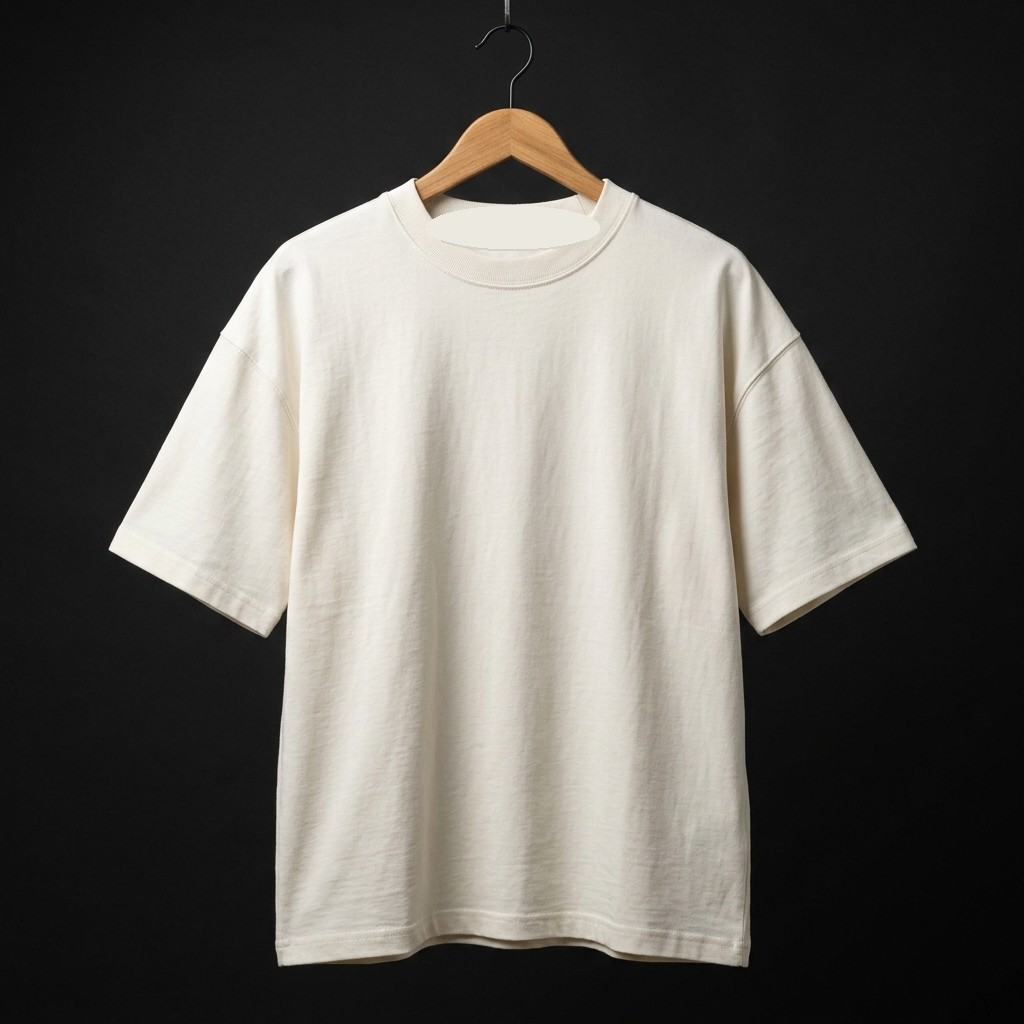
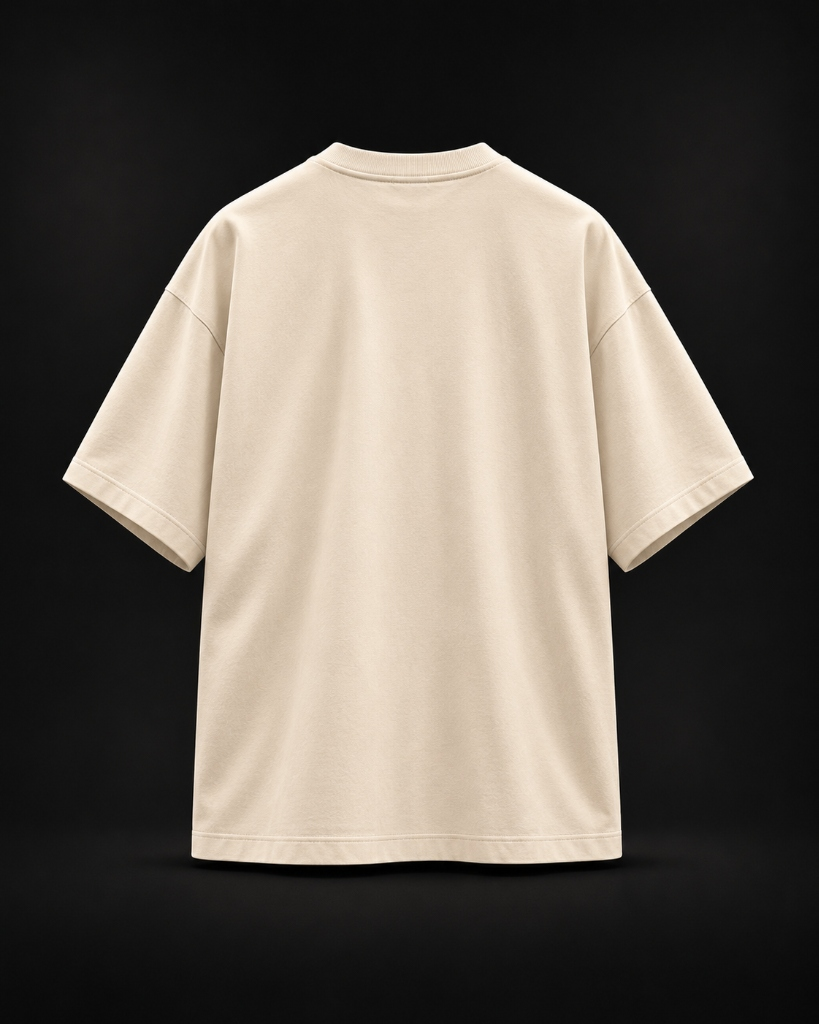
Use user-provided 4-angle plain t-shirt renders (Front, Back, Left, Right) with responsive gallery and canvas view switcher

diff --git a/src/App.jsx b/src/App.jsx
@@ -5767,8 +5767,17 @@ function CustomizeTeePage() {
   }, [selectedElement, activePlacement]);
 
   // Asset paths with cache buster to guarantee fresh loads
-  const PLAIN_TEE_FRONT = "/customize/plain-tee-hanger.jpg?v=2";
-  const PLAIN_TEE_BACK = "/customize/plain-tee-back.jpg?v=2";
+  const PLAIN_TEE_FRONT = "/customize/tee-front.jpg?v=3";
+  const PLAIN_TEE_BACK = "/customize/tee-back.jpg?v=3";
+  const PLAIN_TEE_LEFT = "/customize/tee-left.jpg?v=3";
+  const PLAIN_TEE_RIGHT = "/customize/tee-right.jpg?v=3";
+
+  const getStageTeeImage = (side) => {
+    if (side === "back") return PLAIN_TEE_BACK;
+    if (side === "left") return PLAIN_TEE_LEFT;
+    if (side === "right") return PLAIN_TEE_RIGHT;
+    return PLAIN_TEE_FRONT;
+  };
   const STUDIO_ARTWORK = "/customize/mountain-artwork-pure.png?v=2";
 
   // Garment Colors
@@ -5786,10 +5795,9 @@ function CustomizeTeePage() {
   // Gallery Thumbnails
   const galleryThumbs = [
     { id: 0, title: "Front View", img: PLAIN_TEE_FRONT, view: "front" },
-    { id: 1, title: "Side View", img: "/customize/thumb-side.jpg", view: "left" },
-    { id: 2, title: "Back View", img: PLAIN_TEE_BACK, view: "back" },
-    { id: 3, title: "Collar Ribbing", img: "/customize/thumb-collar.jpg", view: "front" },
-    { id: 4, title: "Fabric Weave", img: "/customize/thumb-fabric.jpg", view: "front" },
+    { id: 1, title: "Back View", img: PLAIN_TEE_BACK, view: "back" },
+    { id: 2, title: "Left Side", img: PLAIN_TEE_LEFT, view: "left" },
+    { id: 3, title: "Right Side", img: PLAIN_TEE_RIGHT, view: "right" },
   ];
 
   // Pre-designed template library
@@ -5998,7 +6006,7 @@ function CustomizeTeePage() {
     const ctx = canvas.getContext("2d");
     const teeImg = new Image();
     teeImg.crossOrigin = "anonymous";
-    teeImg.src = viewSide === "back" ? PLAIN_TEE_BACK : PLAIN_TEE_FRONT;
+    teeImg.src = getStageTeeImage(viewSide);
     teeImg.onload = () => {
       ctx.drawImage(teeImg, 0, 0, 1024, 1024);
       if (uploadedDesign && uploadedDesign.dataUrl) {
@@ -6322,7 +6330,7 @@ MORE THAN A MOMENT.`;
                     onClick={() => setSelectedElement(null)}
                   >
                     <img
-                      src={viewSide === "back" ? PLAIN_TEE_BACK : PLAIN_TEE_FRONT}
+                      src={getStageTeeImage(viewSide)}
                       alt="ENYTM Plain Oversized Tee"
                       className="tee-desktop-img"
                       style={{ filter: currentColorObj.filter }}
@@ -6348,8 +6356,9 @@ MORE THAN A MOMENT.`;
 
                       // Check view side compatibility
                       const isBackItem = placeKey === "back-center" || placeKey === "back";
-                      if (isBackItem && viewSide !== "back") return null;
-                      if (!isBackItem && viewSide === "back") return null;
+                      if (viewSide === "front" && isBackItem) return null;
+                      if (viewSide === "back" && !isBackItem) return null;
+                      if ((viewSide === "left" || viewSide === "right") && placeKey !== "sleeves") return null;
 
                       const isSelected = selectedElement === placeKey;
 
@@ -7255,7 +7264,7 @@ MORE THAN A MOMENT.`;
               </button>
               <div className="tee-stage-zoomed">
                 <img
-                  src={viewSide === "back" ? PLAIN_TEE_BACK : PLAIN_TEE_FRONT}
+                  src={getStageTeeImage(viewSide)}
                   alt="ENYTM Tee Preview Zoomed"
                   className="tee-base-img"
                   style={{ filter: currentColorObj.filter }}
